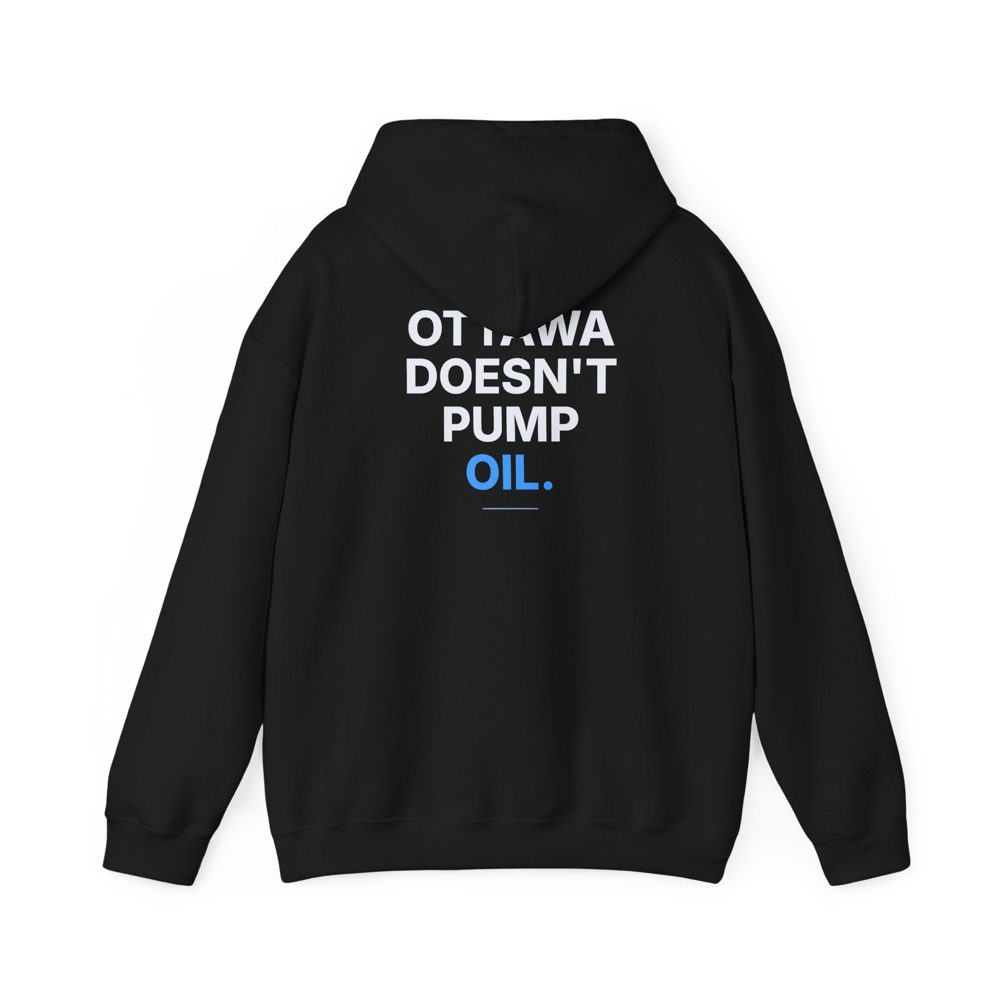
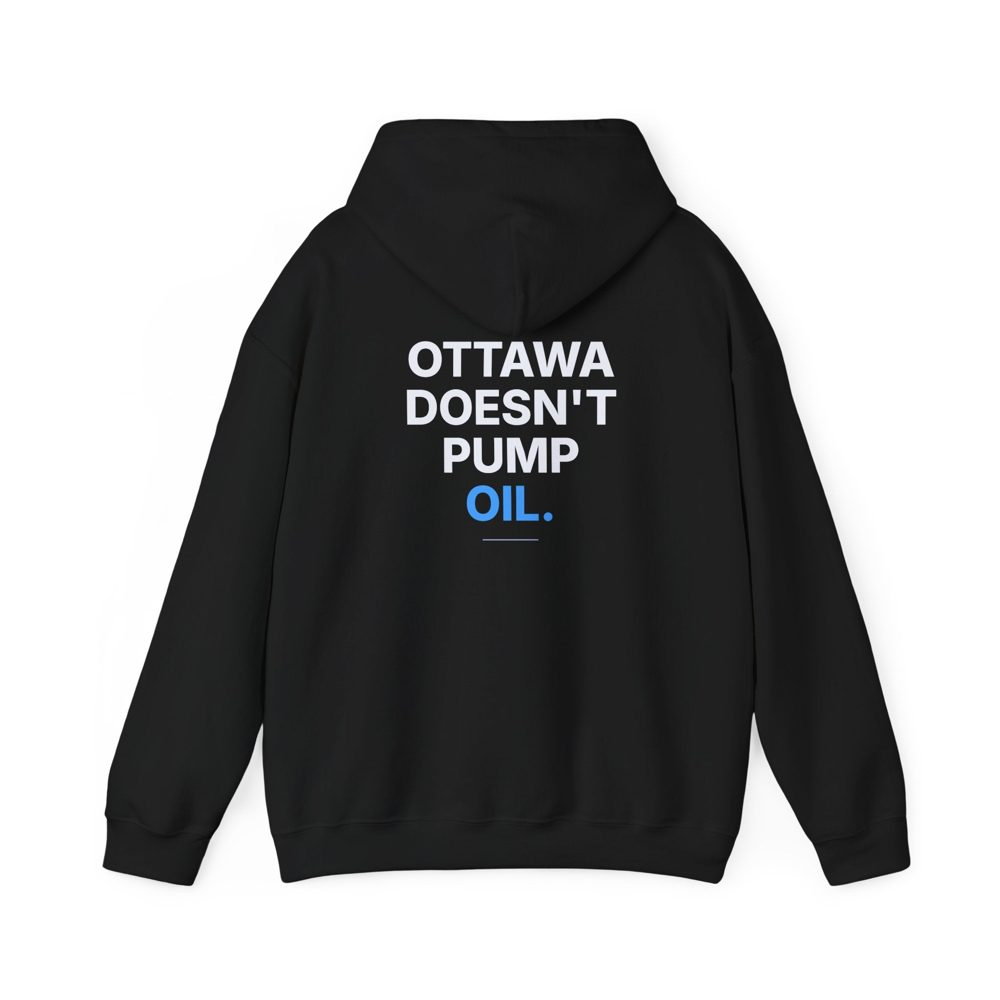
Shop: refreshed Ottawa hoodie photos after moving the back print below the hood
Claude-Session: https://claude.ai/code/session_015LZ88J7iYn7irdKbaaa1UK

Changed region(s): [[0.403, 0.31, 0.62, 0.527]]

diff --git a/docs/index.html b/docs/index.html
@@ -92,6 +92,8 @@
 
 
 
+
+
 <!--LD--><script type="application/ld+json">{"@context": "https://schema.org", "@graph": [{"@type": "Organization", "name": "Tidywells", "url": "https://tidywells.com/", "logo": "https://tidywells.com/img/logo.png", "sameAs": ["https://tidywells.substack.com/", "https://medium.com/@tidywells", "https://github.com/Jay-Kimani/TidyWells"]}, {"@type": "WebSite", "name": "Tidywells", "url": "https://tidywells.com/"}]}</script><!--/LD-->
 </head>
 <body>

diff --git a/shop/fetch_shopify.py b/shop/fetch_shopify.py
@@ -7,7 +7,7 @@ raw = os.path.join(os.path.dirname(__file__), "_sp")
 for key, names in m.items():
     for i, n in enumerate(names):
         dst = os.path.join(out, f"sp-{key}-{i+1}.jpg")
-        if os.path.exists(dst): continue
+        if os.path.exists(dst) and not os.environ.get("FORCE_KEY") == key: continue
         tmp = os.path.join(raw, f"{key}-{i+1}.jpg")
         r = subprocess.run(["curl", "-sSfL", "-o", tmp, base + n + ".jpg"])
         if r.returncode: print("FAIL", key, n); continue
